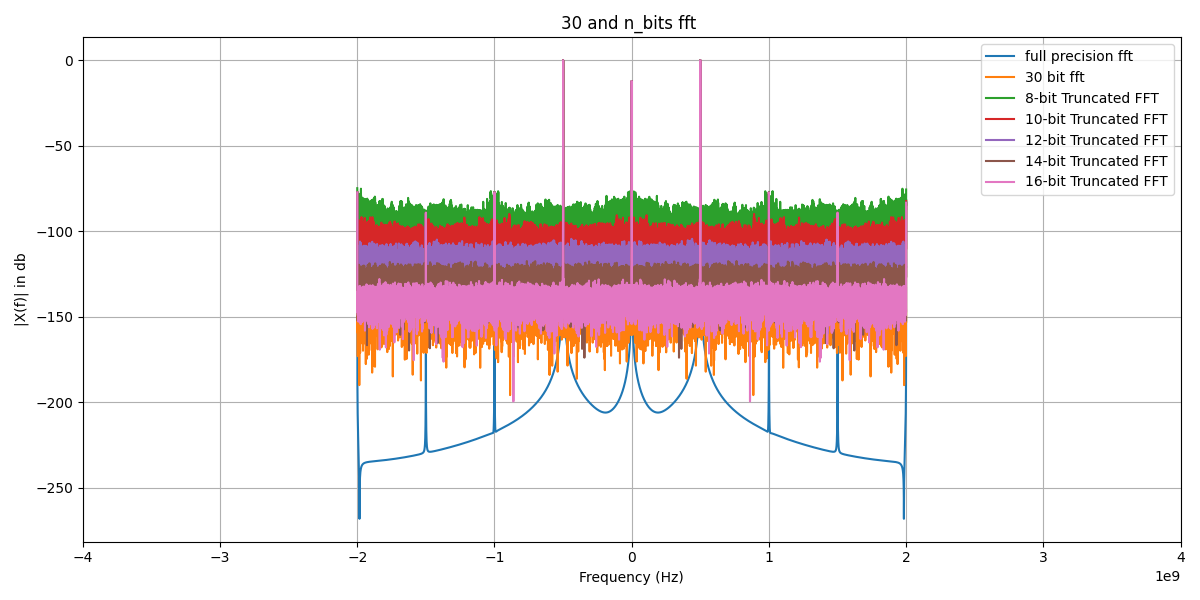
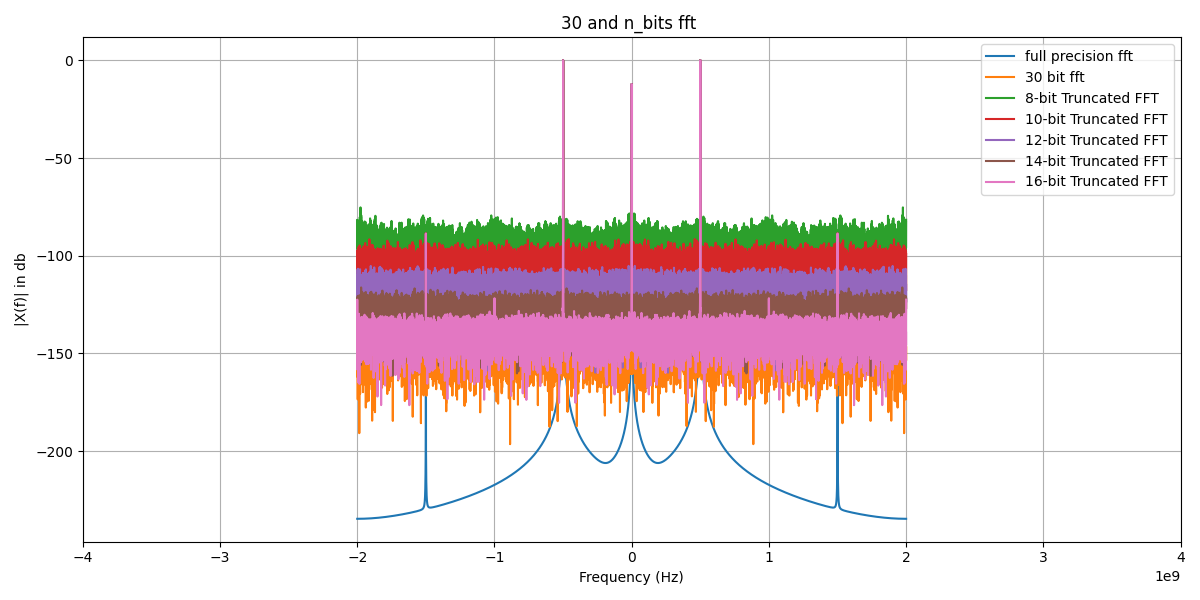
clean up

diff --git a/apsera_sim/truncation_after_fft.py b/apsera_sim/truncation_after_fft.py
@@ -5,7 +5,7 @@ from sine_input import sine_curve
 from adc import sample,adc
 from window import window_bits
 from fft_return_complex import fft_complex
-from truncating import truncate,truncate_after_fft
+from truncating import truncate
 
 M = 16
 N = 1024
@@ -25,55 +25,37 @@ fft_points = 2**14
 # duration such that when sampled we get appropriate no. of points
 duration = fft_points/adc_sampling_rate 
 
-time_1,vin_values_1 = sine_curve(f1,sampling_rate,duration,0)
-time_2,vin_values_2 = sine_curve(f2,sampling_rate,duration,90)
+time,vin_values = sine_curve(f1,sampling_rate,duration,0,acc=1)
 
-# plt.plot(time_2,vin_values_2)
-# plt.show()
-# sample and hold
-adc_time_1,adc_signal_1 = sample(time_1,adc_sampling_rate,vin_values_1) 
-adc_time_2,adc_signal_2 = sample(time_2,adc_sampling_rate,vin_values_2)
+adc_time,adc_signal = sample(time,adc_sampling_rate,vin_values) 
 
 #passing adc
-digital_values_1 = [adc(vin,adc_bits,v_ref) for vin in adc_signal_1] 
-digital_values_2 = [adc(vin,adc_bits,v_ref) for vin in adc_signal_2] 
-
-# removing dc offset
-digital_values_no_offset_1 = np.array(digital_values_1) - (2**(adc_bits-1))
-digital_values_no_offset_1 = (digital_values_no_offset_1).astype(int)
-digital_values_no_offset_2 = np.array(digital_values_2) - (2**(adc_bits-1))
-digital_values_no_offset_2 = (digital_values_no_offset_2).astype(int)
+digital_values = [adc(vin,adc_bits,v_ref) for vin in adc_signal] 
  
-w_signal_1,gain_bits = window_bits(adc_time_1,w_bit)
-w_signal_2,gain_bits = window_bits(adc_time_2,w_bit)
+# removing dc offset
+digital_values_no_offset = np.array(digital_values) - (2**(adc_bits-1))
+digital_values_no_offset = (digital_values_no_offset).astype(int)
+ 
+w_signal,gain_bits = window_bits(adc_time,w_bit)
 
-windowed_30_1 = digital_values_no_offset_1 * w_signal_1
-windowed_30_2 = digital_values_no_offset_2 * w_signal_2 # windowing signal
+#windowing 
+windowed_30 = digital_values_no_offset * w_signal
 eps = 1e-12 # to avoid log(0)
 
-# plt.plot(adc_time_1,windowed_30_1)
-# plt.show()
-
 # truncate to 12 bit
-windowed_truncate_1 = truncate(truncate_bit,windowed_30_1)
-windowed_truncate_2 = truncate(truncate_bit,windowed_30_2)
+windowed_truncate = truncate(truncate_bit,windowed_30)
 
 # fft
-freq_1,re_part_1,im_part_1 = fft_complex(M,N,P,windowed_truncate_1,adc_sampling_rate,gain_bits)
-freq_2,re_part_2,im_part_2 = fft_complex(M,N,P,windowed_truncate_2,adc_sampling_rate,gain_bits)
+freq,re_part,im_part = fft_complex(M,N,P,windowed_truncate,adc_sampling_rate,gain_bits)
 
 #converting to int
-re_part_int_1 = (np.round(re_part_1)).astype(np.int64)
-im_part_int_1 = (np.round(im_part_1)).astype(np.int64)
-re_part_int_2 = (np.round(re_part_2)).astype(np.int64)
-im_part_int_2 = (np.round(im_part_2)).astype(np.int64)
+re_part_int= (np.round(re_part)).astype(np.int64)
+im_part_int = (np.round(im_part)).astype(np.int64)
 
-index_signal_1 = np.array(im_part_int_1).argmax()
-index_signal_2 = np.array(im_part_int_2).argmax()
-print("max re (signed 32-bit):", format((re_part_int_1[index_signal_1]) & 0xFFFFFFFF, '#034b'))
-print("max im (signed 32-bit):", format((im_part_int_1[index_signal_1]) & 0xFFFFFFFF, '#034b'))
-print("max re (signed 32-bit):", format((re_part_int_2[index_signal_2]) & 0xFFFFFFFF, '#034b'))
-print("max im (signed 32-bit):", format((im_part_int_2[index_signal_2]) & 0xFFFFFFFF, '#034b'))
+index_signal_1 = np.array(im_part_int).argmax()
+index_signal_2 = np.array(im_part_int).argmax()
+print("max re (signed 32-bit):", format((re_part_int[index_signal_1]) & 0xFFFFFFFF, '#034b'))
+print("max im (signed 32-bit):", format((im_part_int[index_signal_1]) & 0xFFFFFFFF, '#034b'))
 
 # from observed values truncating to 24 bits seems to retain fft properties therefore shaving from MSB till 24 bits
 # also rounding to 18 bits to keep withing DSP 48 slice

diff --git a/apsera_sim/Truncation_after_window.py b/apsera_sim/Truncation_after_window.py
@@ -24,7 +24,7 @@ fft_points = 16*2**10
 # duration such that when sampled we get appropriate no. of points
 duration = fft_points/adc_sampling_rate 
 
-time,vin_values = sine_curve(f,sampling_rate,duration,v_ref)
+time,vin_values = sine_curve(f,sampling_rate,duration,v_ref,acc=1)
 
 # sample and hold
 adc_time,adc_signal = sample(time,adc_sampling_rate,vin_values) 

diff --git a/apsera_sim/window_error_for_diff_bit_length.py b/apsera_sim/window_error_for_diff_bit_length.py
@@ -1,6 +1,6 @@
 import numpy as np
 import matplotlib.pyplot as plt
-from apsera_sim.window import window_bits,window_precision
+from window import window_bits,window_precision
 
 M = 16
 N = 1024
@@ -46,4 +46,4 @@ plt.tight_layout()
 plt.savefig("fft_main_superimposed_2.png")
 plt.show()
 
-
+# error very less for 18 bits from graph
